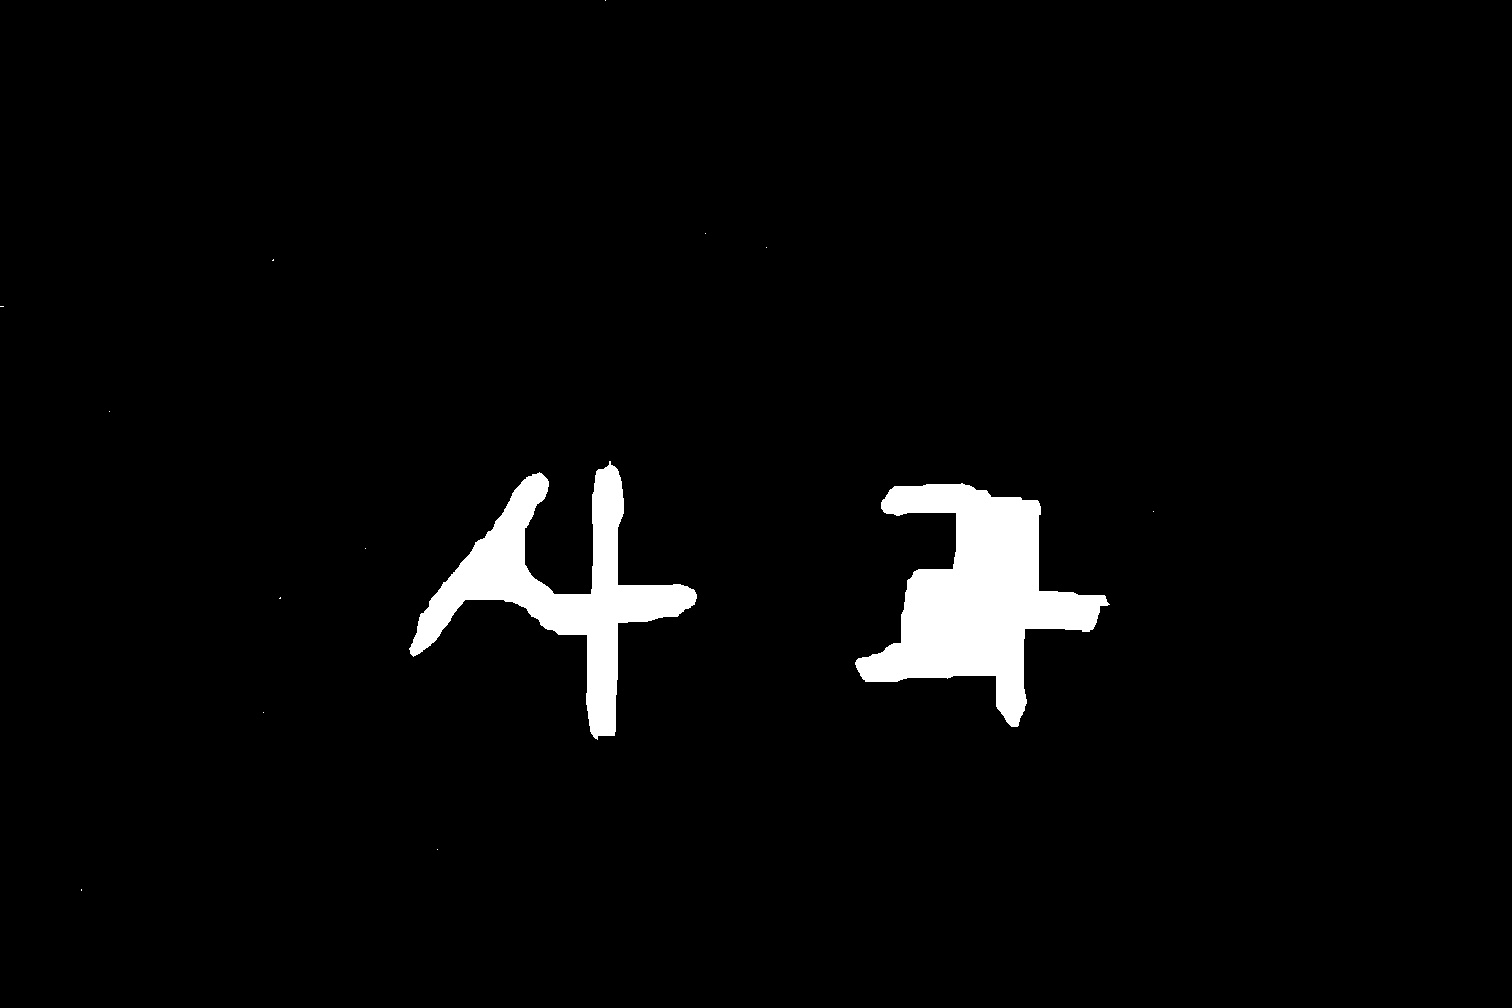
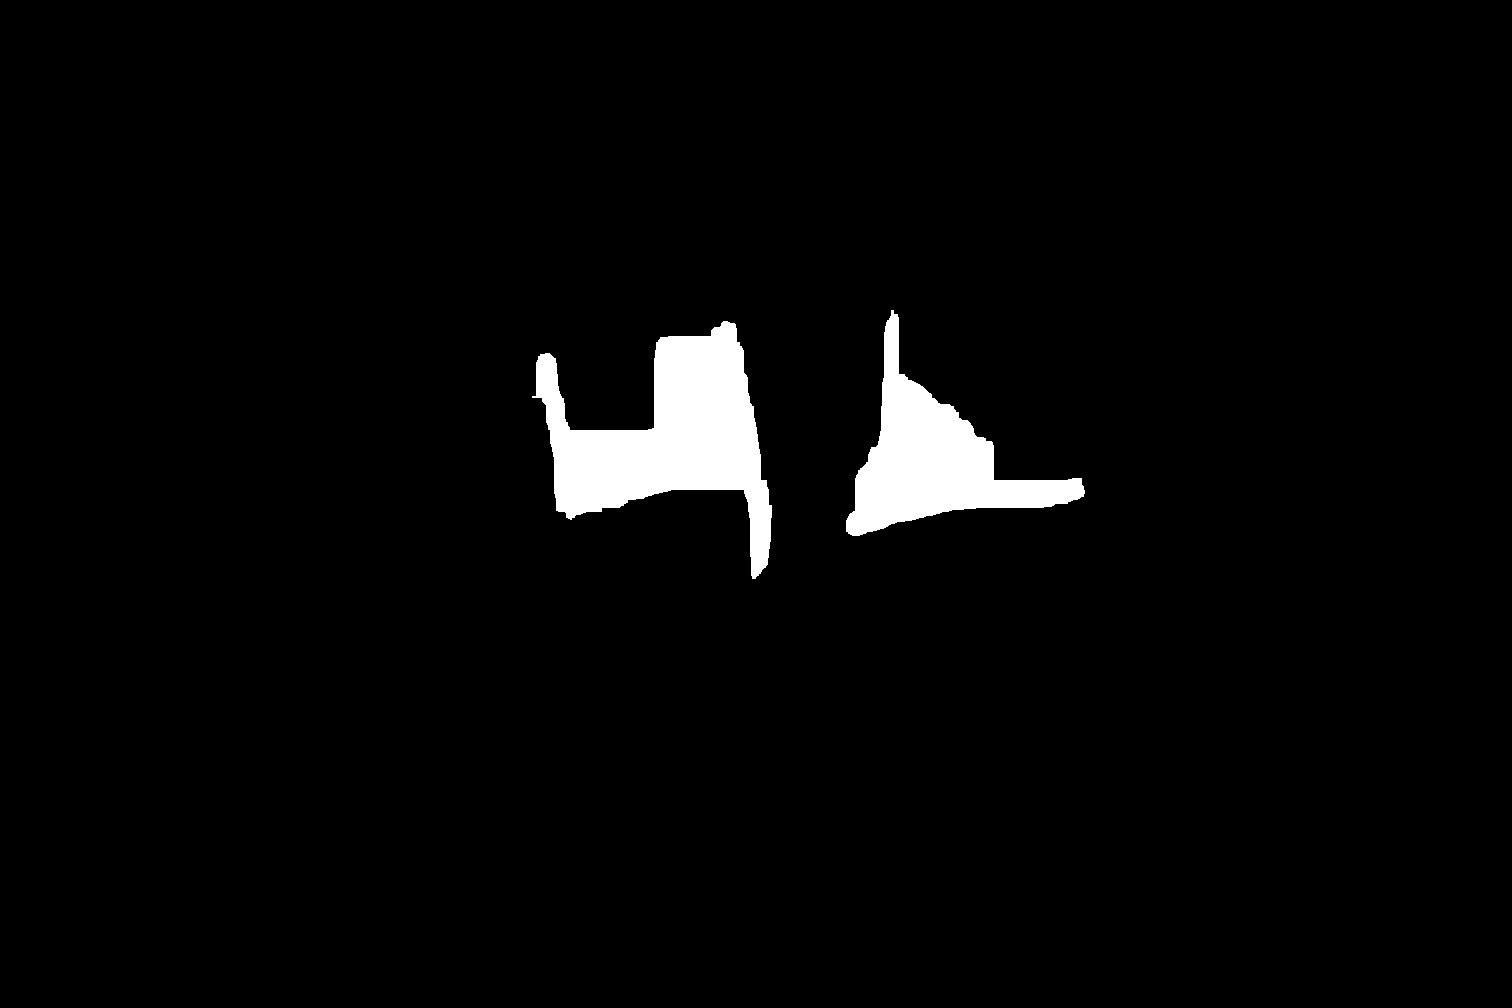
11/25 maybe final

Changed region(s): [[0.2487, 0.3075, 0.5284, 0.7381], [0.5595, 0.3075, 0.746, 0.7381]]

diff --git a/server/server.js b/server/server.js
@@ -5,21 +5,19 @@ var bodyParser = require('body-parser');
 var Buffer = require('buffer').Buffer;
 const PythonShell = require('python-shell').PythonShell;
 
+// python options
 const options = {
   mode: 'text',
   pythonPath: 'C:/Users/sam70/anaconda3/envs/capstone/python.exe',
   pythonOptions: ['-u'], // get print results in real-time
 };
-
 const app = express();
 
-app.use(bodyParser.json({limit: 10000000}));
+// express request entity limit expand
+app.use(bodyParser.json({limit: 100000000}));
 app.use(cors());
 
-app.get('/data', (req, res) => {
-  res.send({name: 'HelloRNC'});
-});
-
+// processing user upload
 app.post('/upload', (req, res) => {
   fs.writeFile(
     '../image/1.jpg',
@@ -29,10 +27,12 @@ app.post('/upload', (req, res) => {
     },
   );
   PythonShell.run('text_detection.py', options, (err, results) => {
+    console.log(err);
     res.send(results);
   });
 });
 
+// Running on 3001 port
 app.listen(3001, () => {
   console.log('3001 running');
 });

diff --git a/server/text_detection.py b/server/text_detection.py
@@ -1,34 +1,15 @@
 import cv2
 import numpy as np
-import tensorflow as tf
+# import tensorflow as tf
 import numpy as np
 import pathlib
 
-img_height = 200
-img_width = 200
+# img_height = 200
+# img_width = 500
 
-f = open("./dict.txt","r")
-syllable_dict = []
-while True:
-    line = f.readline()
-    if not line:
-        break
-    syllable_dict.append(line[:-1])
+# new_model = tf.keras.models.load_model('D:/model')
 
-new_model = tf.keras.models.load_model('D:/model')
-
-# add = "./image/1.jpg"
-# path = pathlib.Path(add)
-# image = tf.keras.preprocessing.image.load_img(
-#             path, target_size=(img_height, img_width))
-# img_array = tf.keras.preprocessing.image.img_to_array(image)
-# img_array = tf.expand_dims(img_array, 0)
-
-# predictions = new_model.predict(img_array)
-# score = (predictions[0])
-# print(syllable_dict[np.argmax(score)], np.max(score)*100)
-
-kernel = np.ones((37, 37), np.uint8)
+kernel = np.ones((71, 71), np.uint8)
 
 src = cv2.imread("../image/1.jpg")
 
@@ -51,21 +32,23 @@ for contour in contours:
     print()
     print(x + 756, y + 1330, w, h)
 
-    cropped_char = cropped_img[y - 10:y+h + 10, x - 10:x+w + 10]
-    dst = cv2.resize(cropped_char, dsize=(170, 170), interpolation=cv2.INTER_AREA)
-    dst2 = cv2.copyMakeBorder(dst,15,15,15,15,cv2.BORDER_REPLICATE)
-    save_path = "../image/char" + str(index) + ".jpg"
-    index+=1
-    cv2.imwrite(save_path, dst2)
+    # cropped_char = cropped_img[y - 10:y+h + 10, x - 10:x+w + 10]
+    # dst = cv2.resize(cropped_char, dsize=(170, 170), interpolation=cv2.INTER_AREA)
+    # dst2 = cv2.copyMakeBorder(dst,15,15,15,15,cv2.BORDER_REPLICATE)
+    # save_path = "../image/char" + str(index) + ".jpg"
+    # index+=1
+    # cv2.imwrite(save_path, dst2)
     
-    image = tf.keras.preprocessing.image.load_img(save_path, target_size=(img_height, img_width))
-    img_array = tf.keras.preprocessing.image.img_to_array(image)
-    img_array = tf.expand_dims(img_array, 0)
-    predictions = new_model.predict(img_array)
-    score = (predictions[0])
-    print()
-    print(np.argmax(score), np.max(score)*100)
+    # image = tf.keras.preprocessing.image.load_img(save_path, target_size=(img_height, img_width))
+    # img_array = tf.keras.preprocessing.image.img_to_array(image)
+    # img_array = tf.expand_dims(img_array, 0)
+    # predictions = new_model.predict(img_array)
+    # score = (predictions[0])
+    # print()
+    # print(np.argmax(score), np.max(score)*100)
 
+for contour in contours:
+    [x, y, w, h] = cv2.boundingRect(contour)
     cv2.rectangle(src, (x + 756, y + 1330), (x + 756 + w, y + 1330 + h), (255, 0, 255), 3)
 
 cv2.imwrite("../image/final.jpg", final1)
